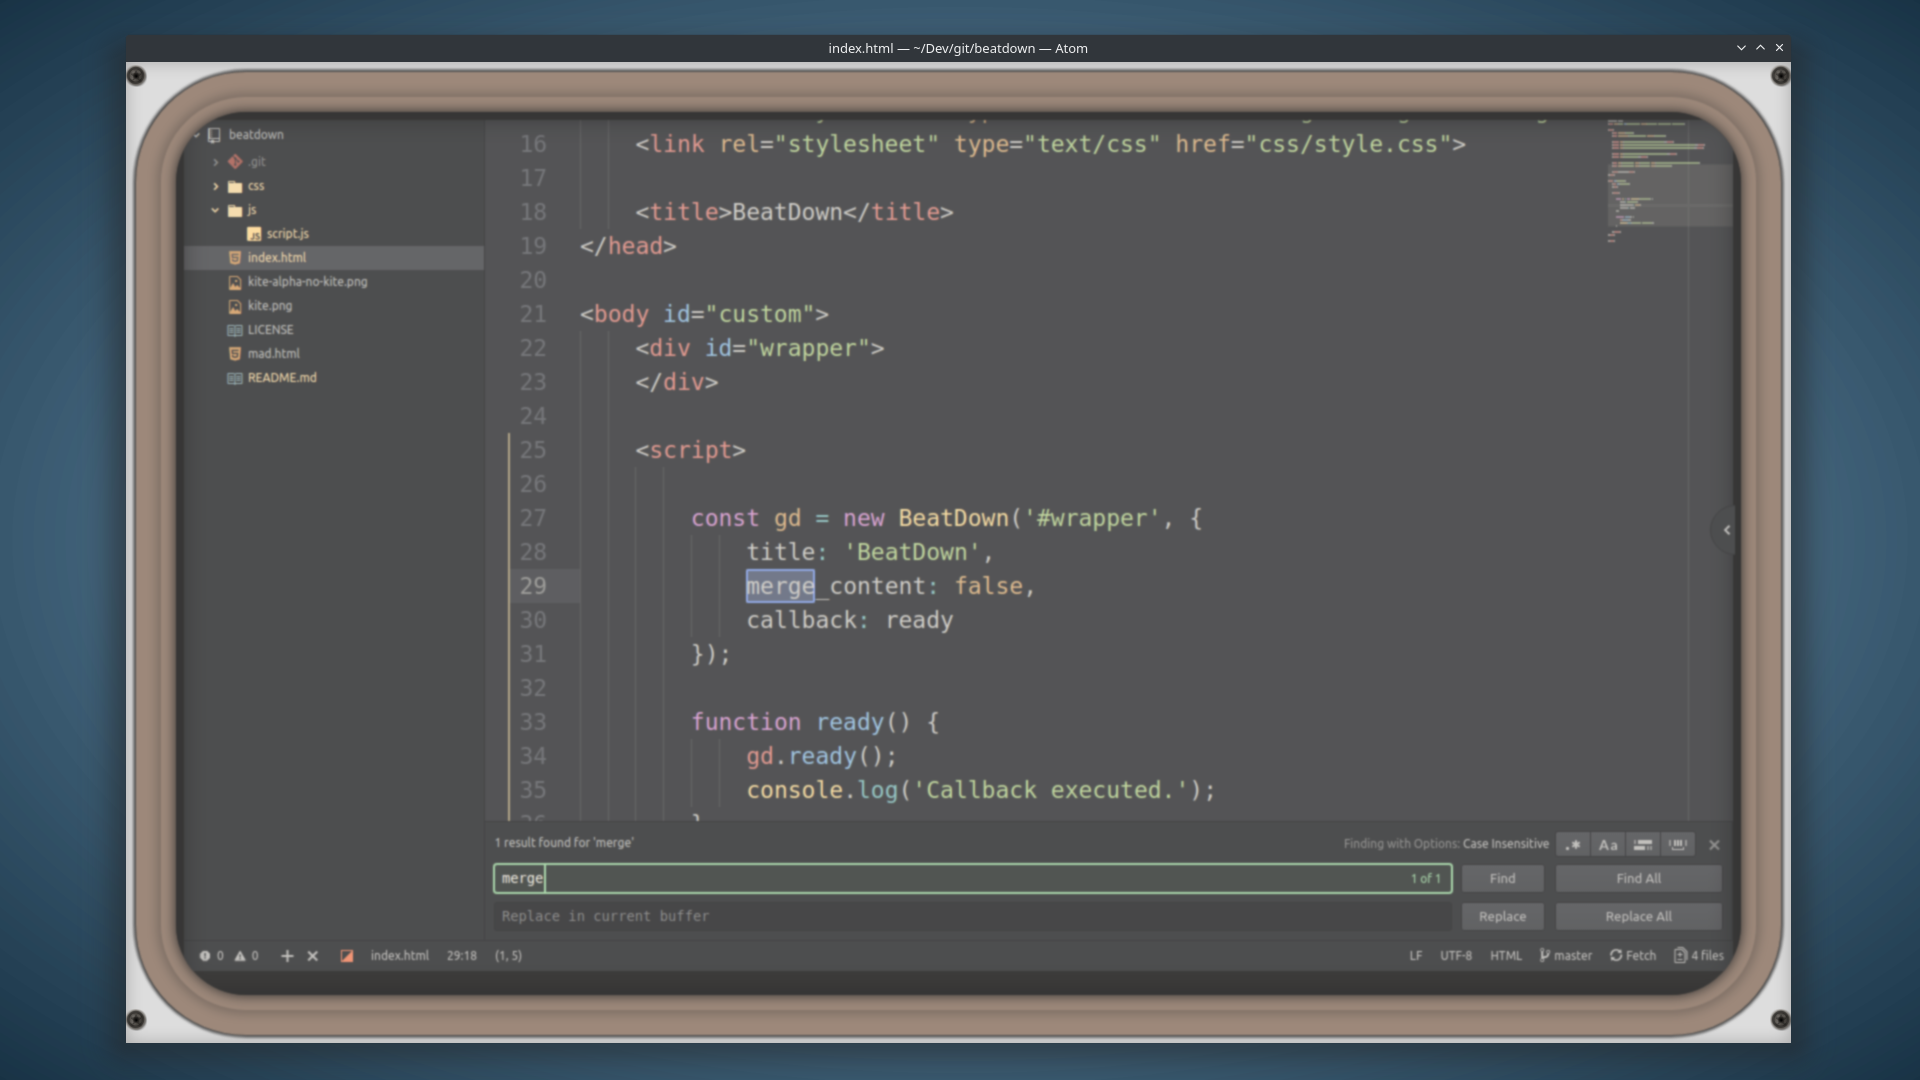
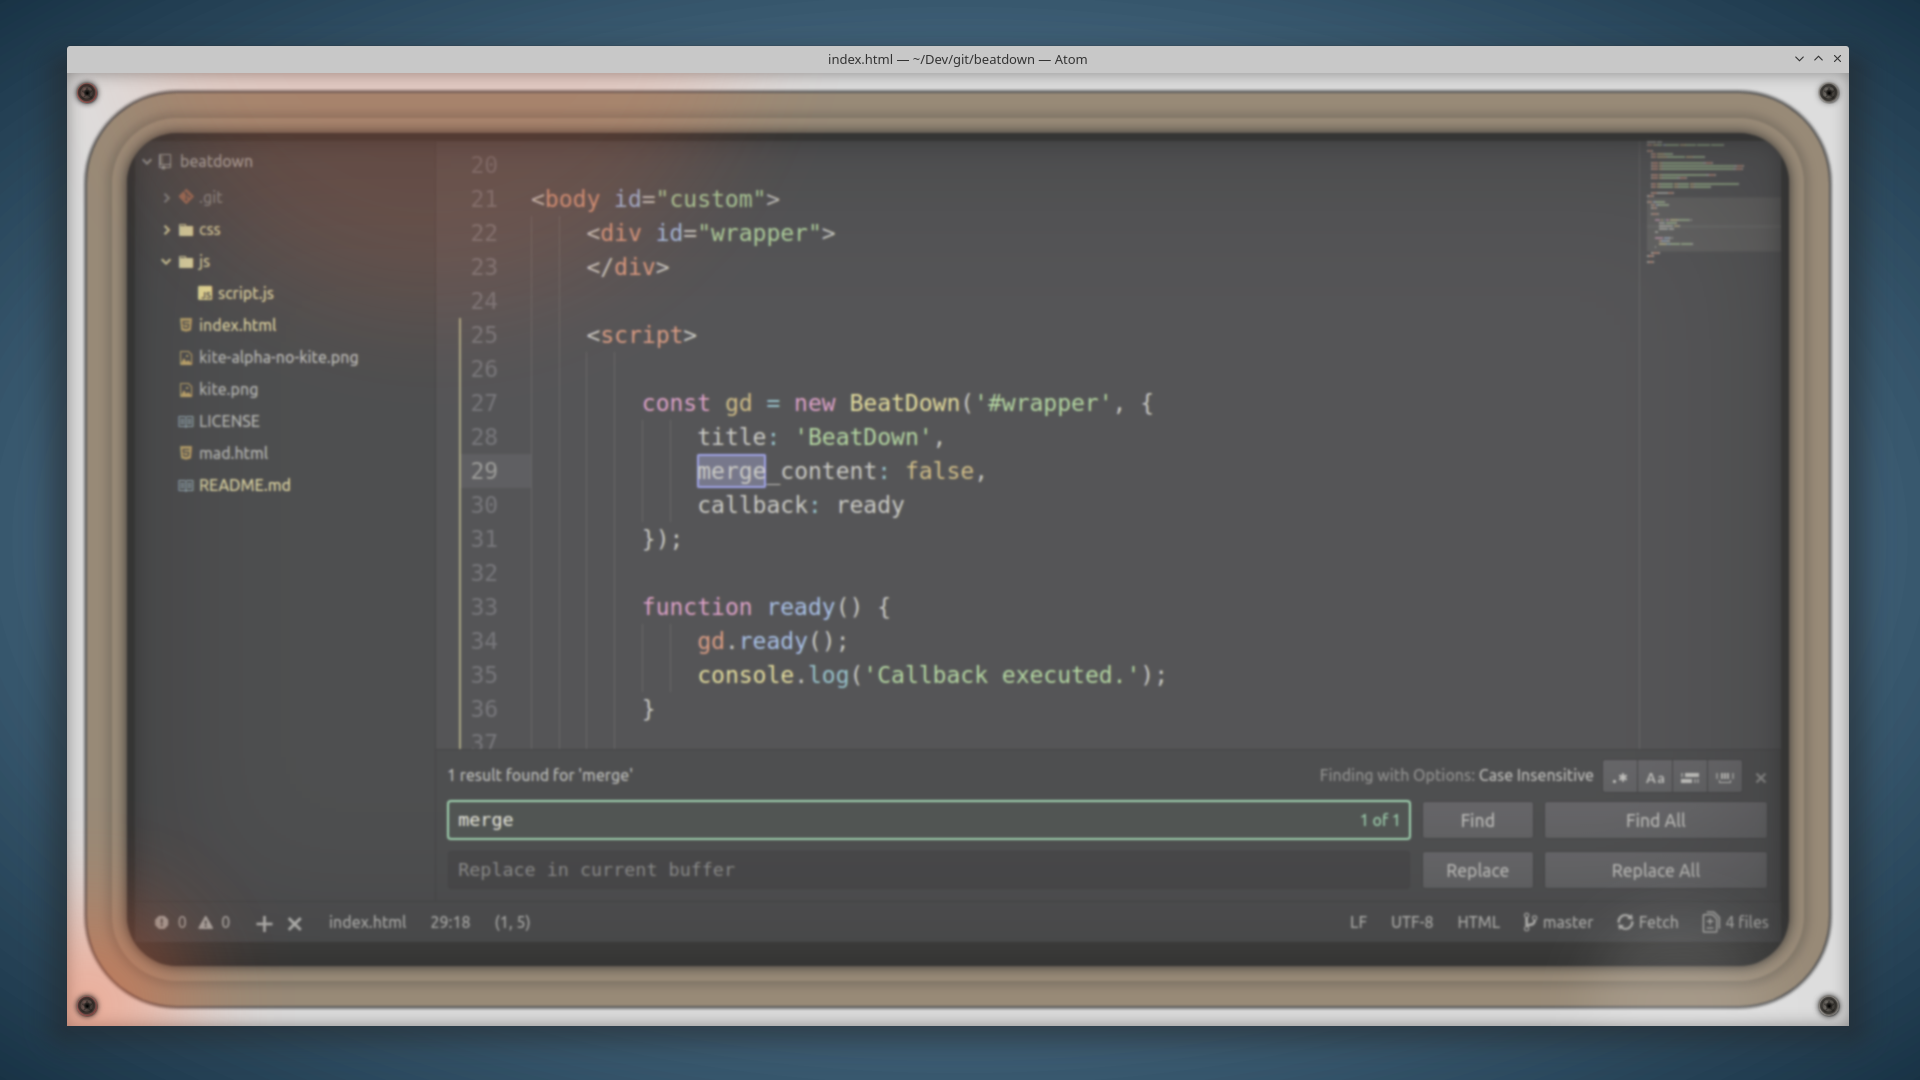
Added option for animations, fixed other stuff.

Changed region(s): [[0.0312, 0.0306, 0.9688, 0.9778], [0.25, 0.4889, 0.2812, 0.6111], [0.2188, 0.4278, 0.2812, 0.4583]]

diff --git a/styles/atom.less b/styles/atom.less
@@ -6,63 +6,33 @@ html {
 	font-size: @font-size;
 }
 
-html::before,
-html::after,
-body::before,
-body::after {
-	content: "⍟";
-	font-weight: 900;
-	color: rgba(0,0,0,0.3);
-	text-shadow:
-		0 0 2px black,
-		0 0 4px antiquewhite,
-		1px 1px 3px black;
-	font-size: 30px;
-	position: absolute;
-	height: 30px;
-	width: 30px;
-	top: -10px;
-	left: 0;
-}
-
-html::after {
-	top: -10px;
-	left: unset;
-	right: -10px;
-}
-
-body::before {
-	top: unset;
-	bottom: 17px;
-}
-
-body::after {
-	top: unset;
-	bottom: 17px;
-	left: unset;
-	right: -10px;
-}
-
 body {
-	background: #ddd;
-	box-shadow: inset 0 0 30px #aaa;
+	background-color: #ddd;
+	box-shadow: inset 0 0 30px #888;
+	padding: 60px;
 }
 
+// 70s color animation
 @keyframes colors {
-  0% { filter: blur(0.85px) sepia(30%) contrast(0.7) brightness(1.2) hue-rotate(0deg); }
+  0% { filter: blur(1px) sepia(30%) contrast(0.7) brightness(1.2) hue-rotate(0deg); }
   2% { filter: blur(1px) sepia(32%) contrast(0.7) brightness(1.2) hue-rotate(10deg); }
-  40% { filter: blur(0.75px) sepia(30%) contrast(0.7) brightness(1.2) hue-rotate(25deg); }
+  40% { filter: blur(1.25px) sepia(30%) contrast(0.7) brightness(1.2) hue-rotate(25deg); }
   50% { filter: blur(1px) sepia(40%) contrast(0.7) brightness(1.2) hue-rotate(0deg); }
-  70% { filter: blur(1.2px) sepia(40%) contrast(0.75) brightness(1.2) hue-rotate(15deg); }
-  100% { filter: blur(0.8px) sepia(30%) contrast(0.7) brightness(1.2) hue-rotate(0deg); }
+  70% { filter: blur(1.4px) sepia(40%) contrast(0.75) brightness(1.2) hue-rotate(15deg); }
+  100% { filter: blur(1px) sepia(30%) contrast(0.7) brightness(1.2) hue-rotate(0deg); }
 }
+
+/*
+	disabled by default
+	copy-paste this into style.less in config folder to easily enable
+*/
+// atom-workspace {
+//   animation: colors 2s linear infinite;
+// }
 
 atom-workspace {
-	margin: 50px 50px;
 	padding: 8px 8px 24px 8px;
-	height: 90vh;
-	border-radius: 70px;
-	animation: colors 2s linear infinite;
+	border-radius: 50px;
 	background-color: #111;
 	box-shadow:
 		0 0 20px black,
@@ -73,6 +43,7 @@ atom-workspace {
 	filter: blur(1px) sepia(30%) contrast(0.8) brightness(1.2);
 }
 
+// soft gradient overlay and box-shadow for inside edges
 atom-workspace::after {
 	content: "";
 	z-index: 2;
@@ -83,7 +54,71 @@ atom-workspace::after {
 	width: 100%;
 	height: 100%;
 	box-shadow:
+		inset 0 0 300px rgba(0,0,0,0.5),
 		inset 0 0 50px black;
+}
+
+// unicode screws
+html::before,
+html::after,
+body::before,
+body::after {
+	content: "⍟";
+	z-index: 1;
+	pointer-events: none;
+	font-weight: 900;
+	color: rgba(0,0,0,0.3);
+	text-shadow:
+		0 0 2px black,
+		0 0 4px antiquewhite,
+		1px 1px 3px black;
+	font-size: 30px;
+	line-height: 15px;
+	position: absolute;
+	text-align: justify;
+	height: 20px;
+	width: 20px;
+	border-radius: 50%;
+	box-shadow: 0 0 10px rgba(0,0,0,0.5);
+	top: 10px;
+	left: 10px;
+}
+
+// top left screw
+html::before {
+	box-shadow:
+		0 0 10px black,
+		inset 0 0 20px red,
+		350px -100px 200px 300px rgba(255,100,50, 0.15);
+}
+
+// top right screw
+html::after {
+	top: 10px;
+	left: unset;
+	right: 10px;
+}
+
+// bottom left screw
+body::before {
+	top: unset;
+	bottom: 10px;
+	border-radius: 50%;
+	box-shadow:
+		0 0 10px black,
+		inset 0 0 20px red,
+		0 0 200px 80px rgba(255,100,50, 0.5);
+}
+
+// bottom right screw
+body::after {
+	top: unset;
+	bottom: 10px;
+	left: unset;
+	right: 10px;
+	box-shadow:
+		0 0 10px black,
+		-150px 0 100px 80px rgba(255,255,255, 0.125);
 }
 
 // Scrollbars ------------------------------------

diff --git a/styles/config.less b/styles/config.less
@@ -3,6 +3,7 @@
 // This gets changed from the theme settings
 
 @theme-tabsizing: ~'theme-@{ui-theme-name}-tabsizing';
+@theme-animate: ~'theme-@{ui-theme-name}-animate';
 @theme-dockButtons: ~'theme-@{ui-theme-name}-dock-buttons';
 @theme-stickyHeaders: ~'theme-@{ui-theme-name}-sticky-headers';
 @theme-closeButton: ~'theme-@{ui-theme-name}-tab-close-button';
@@ -77,6 +78,26 @@
 
 }
 
+
+// Animations ------------------------------
+
+[@{theme-animate}="on"] {
+
+  atom-workspace {
+    animation: colors 2s linear infinite;
+  }
+
+  // Hide docks when not open
+  // .atom-dock-inner:not(.atom-dock-open) {
+  //   display: none;
+  // }
+  //
+  // // Hide toggle buttons
+  // .atom-dock-toggle-button {
+  //   display: none;
+  // }
+
+}
 
 // Hide docks toggle buttons ------------------------------
 

diff --git a/index.less b/index.less
@@ -1,5 +1,4 @@
-
-// Atom UI Theme: One
+// Atom 1 UI Theme
 
 @import "styles/ui-variables.less";
 @import "styles/ui-mixins.less";

diff --git a/README.md b/README.md
@@ -1,6 +1,6 @@
 # Atom 1.0 UI
 
-Meager attempt at replicating the aesthetics of the infamous [Atom 1.0 home computer](https://www.youtube.com/watch?v=Y7aEiVwBAdk) through the Atom editor software it inspired. Or maybe it was the other way around. No one knows.
+Meager attempt at replicating the aesthetics of the infamous [Atom 1.0 home computer](https://www.youtube.com/watch?v=Y7aEiVwBAdk) through the Atom editor software it inspired. Or maybe it was the other way around. Who knows.
 
 This relatively simple fork of Atom One Dark UI just adds some much-needed 70s. Atom One was too modern and far too fast. This adds vintage 70s to slow it right down.
 
@@ -13,6 +13,10 @@ This relatively simple fork of Atom One Dark UI just adds some much-needed 70s. 
 > Markdown with Atom One Light syntax. It works with light themes, it's just real bright.
 ![Markdown with Atom One Light](screenshots/atom-1-ui-markdown.png)
 
+## Animations
+
+70s color effects can be enabled in the theme settings with the `Enable animations` option. Please note, animation effects are very heavy so they slow things down real good and can eat your CPU.
+
 ## Credits
 
 * [@GitHub Atom](https://atom.io/) - design concepts
@@ -23,4 +27,4 @@ This relatively simple fork of Atom One Dark UI just adds some much-needed 70s. 
 ## Features
 * 4 unicode screws.
 * Lots of box-shadows for CPU to chew on.
-* CSS effects ensure CPU is never idle.
+* Optional CSS animations can ensure CPU is never idle.
